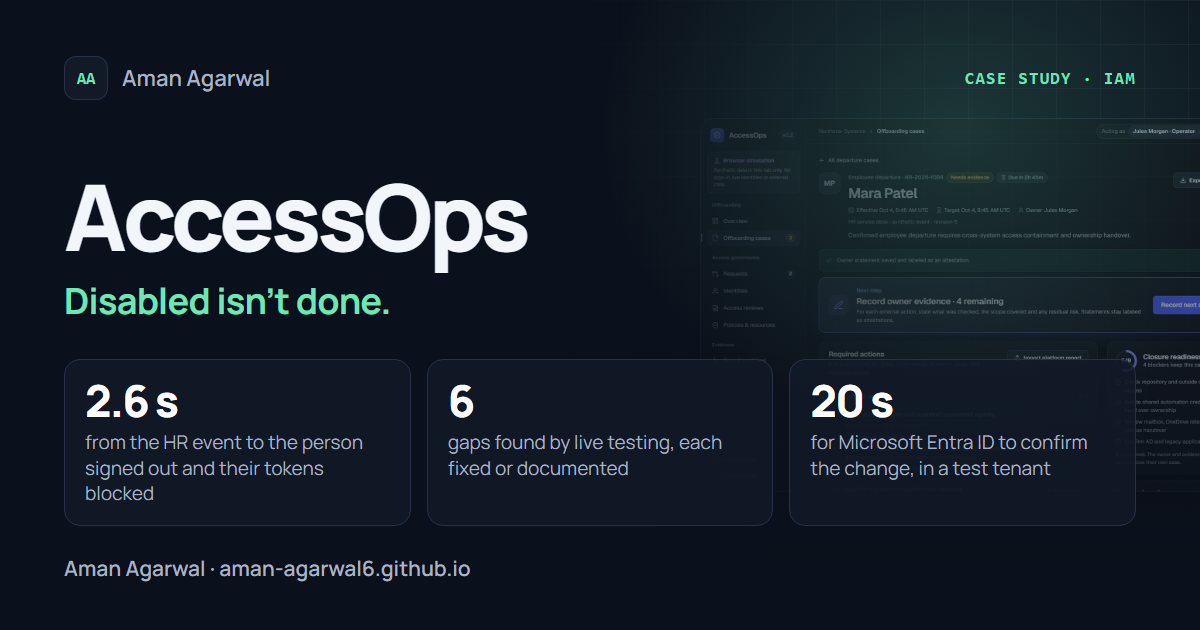
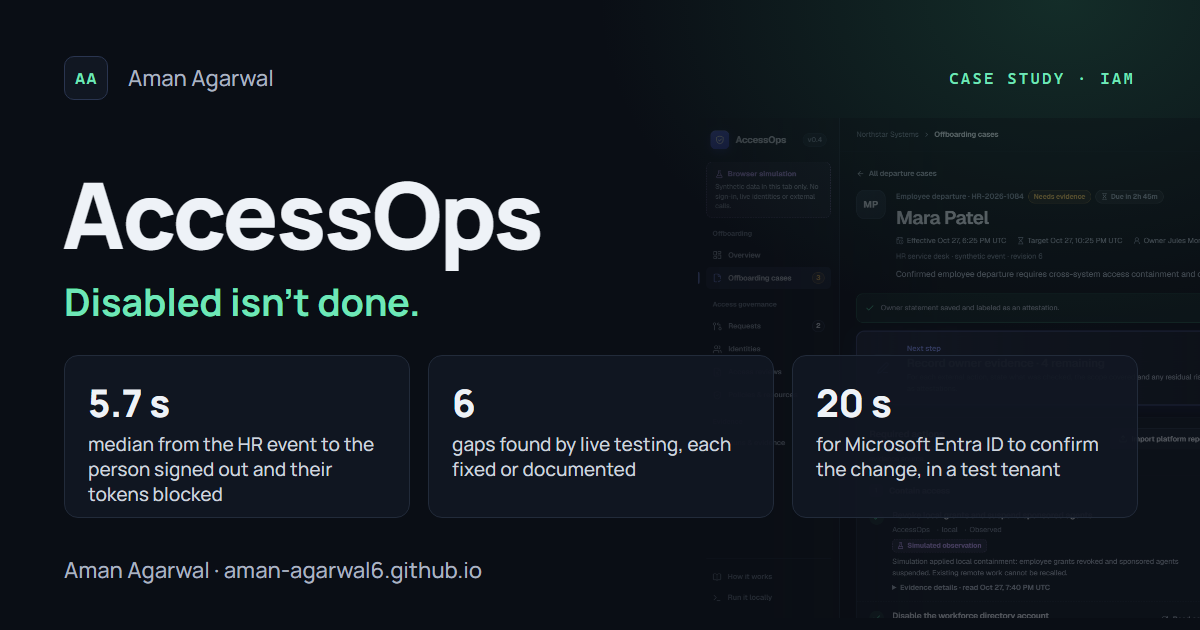
Quote AccessOps' 27 October lab rerun and show the v0.4 demo
The 2.6 s headline came from a run whose report was overwritten. Use
the rerun's median of 5.7 s over six runs, refusal within 2 s and the
33 s upper bound for a sign-in after departure. Recapture the three
screenshots and the link preview from the current demo, and keep the
forged-token finding in the leaked-key row.

diff --git a/projects/accessops.html b/projects/accessops.html
@@ -18,7 +18,7 @@
     <meta property="og:title" content="AccessOps · Disabled isn't done" />
     <meta
       property="og:description"
-      content="Leaver automation verified against real Keycloak, a Microsoft Entra test tenant and a Samba directory: access contained 2.6 s after a signed HR event, six gaps found, each fixed or documented, signed releases."
+      content="Leaver automation verified against real Keycloak, a Microsoft Entra test tenant and a Samba directory: access contained a median 5.7 s after a signed HR event, six gaps found, each fixed or documented, signed releases."
     />
     <meta property="og:url" content="https://aman-agarwal6.github.io/projects/accessops.html" />
     <meta property="og:image" content="https://aman-agarwal6.github.io/assets/img/og-accessops.png" />
@@ -65,10 +65,10 @@
           <a class="btn btn-ghost" href="https://github.com/aman-agarwal6/AccessOps/blob/main/docs/verification.md">Verification ledger</a>
         </div>
         <ul class="tiles" aria-label="Results at a glance">
-          <li><strong>2.6 s</strong>from the HR event to the person signed out and their tokens blocked</li>
+          <li><strong>5.7 s</strong>median from the HR event to the person signed out and their tokens blocked</li>
           <li><strong>6</strong>gaps found by live testing, each fixed or documented</li>
           <li><strong>20 s</strong>for Microsoft Entra ID to confirm the change, in a test tenant</li>
-          <li><strong>32 s</strong>to catch a sign-in after someone has left and alert the security team</li>
+          <li><strong>33 s</strong>at most to catch a sign-in after someone has left and alert the security team</li>
         </ul>
         <dl class="cs-meta">
           <div>
@@ -252,8 +252,8 @@
             <tbody>
               <tr><th scope="row">Group membership</th><td>Stayed after the account was disabled</td><td>Every grant is removed and re-checked</td></tr>
               <tr><th scope="row">App sessions</th><td>The person stayed signed in to the app</td><td>Sessions end; done only at zero</td></tr>
-              <tr><th scope="row">Tokens apps check themselves</th><td>Accepted for 2 more minutes</td><td>Refused 3 s after the cut-off</td></tr>
-              <tr><th scope="row">A leaked signing key</th><td>Apps cached Keycloak's keys for 5 minutes, so a removed key could stay trusted that long</td><td>Apps drop a removed key in 60 s</td></tr>
+              <tr><th scope="row">Tokens apps check themselves</th><td>Accepted for up to 2 more minutes</td><td>Refused within 2 s of the cut-off</td></tr>
+              <tr><th scope="row">A leaked signing key</th><td>Keycloak accepted a token forged with the leaked key; apps cached keys for 5 minutes, so a removed key stayed trusted that long</td><td>Apps drop a removed key in 60 s</td></tr>
               <tr><th scope="row">Key rotation</th><td>Valid tokens refused for 30 s</td><td>New key published first; none refused</td></tr>
               <tr><th scope="row">Kerberos tickets</th><td>Kept the removed group's rights</td><td>Can't be revoked; the case shows when they expire (up to 10 h)</td></tr>
             </tbody>
@@ -266,7 +266,7 @@
 
       <section class="cs-section" aria-labelledby="results">
         <h2 id="results">Results</h2>
-        <p class="scope-note">October 5, 2026, with synthetic users. Every live suite passed on its latest run.</p>
+        <p class="scope-note">Rerun on October 27, 2026 on the current code, with synthetic users; the Entra test-tenant run is from October 5. Every live suite passed on its latest run, and the two failed attempts that day are on the evidence page.</p>
         <div class="table-wrap findings-table" tabindex="0" role="region" aria-label="Scrollable table of recorded results">
           <table>
             <caption class="sr-only">Recorded checks and their results</caption>
@@ -277,7 +277,7 @@
               <tr><th scope="row">Departure case through Keycloak</th><td>18 / 18</td></tr>
               <tr><th scope="row">Departure case with a Samba directory account</th><td>28 / 28</td></tr>
               <tr><th scope="row">Sessions and tokens, before and after</th><td>22 / 22</td></tr>
-              <tr><th scope="row">HR event to access shut off</th><td>10 / 10</td></tr>
+              <tr><th scope="row">HR event to access shut off, 6 runs</th><td>10 / 10 each; median 5.7 s</td></tr>
               <tr><th scope="row">Microsoft Entra ID, free test tenant</th><td>11 / 11</td></tr>
               <tr><th scope="row">Sign-in after departure</th><td>7 / 7</td></tr>
               <tr><th scope="row">Operator sign-in and access lifecycle, including 3 MFA checks</th><td>14 / 14</td></tr>

diff --git a/overview.html b/overview.html
@@ -66,7 +66,7 @@
   <section class="summary-section" aria-labelledby="projects-title">
     <h2 id="projects-title">Selected projects</h2>
     <div class="summary-projects">
-      <article><div><h3><a href="projects/accessops.html">AccessOps</a></h3><span class="summary-status">Public source and demo · Signed release</span></div><div><p class="summary-lede">Automated employee offboarding that shuts off a departing person's access in Microsoft Entra ID (test tenant), Keycloak and an Active Directory-compatible directory, then checks each system to confirm the change.</p><ul class="summary-points"><li><strong>2.6 s</strong> from the HR event to the person signed out and their tokens blocked</li><li><strong>6 gaps</strong> found by live testing, from a surviving group membership to Kerberos tickets valid for 10 hours, each fixed or documented</li><li><strong>20 s</strong> for Entra to confirm the change; <strong>32 s</strong> to catch a sign-in after someone has left</li></ul><small>Python / Django / PostgreSQL / React / Keycloak / Microsoft Entra ID / OPA</small></div></article>
+      <article><div><h3><a href="projects/accessops.html">AccessOps</a></h3><span class="summary-status">Public source and demo · Signed release</span></div><div><p class="summary-lede">Automated employee offboarding that shuts off a departing person's access in Microsoft Entra ID (test tenant), Keycloak and an Active Directory-compatible directory, then checks each system to confirm the change.</p><ul class="summary-points"><li><strong>5.7 s</strong> median from the HR event to the person signed out and their tokens blocked</li><li><strong>6 gaps</strong> found by live testing, from a surviving group membership to Kerberos tickets valid for 10 hours, each fixed or documented</li><li><strong>20 s</strong> for Entra to confirm the change; at most <strong>33 s</strong> to catch a sign-in after someone has left</li></ul><small>Python / Django / PostgreSQL / React / Keycloak / Microsoft Entra ID / OPA</small></div></article>
       <article><div><h3><a href="projects/signalbridge.html">SignalBridge</a></h3><span class="summary-status">Public source · Signed release</span></div><div><p class="summary-lede">Detection rules for identity attacks in Windows and Microsoft Entra ID logs, tested on public attack data and compared with the security community's rules.</p><ul class="summary-points"><li><strong>Sigma rules</strong> for password spraying, Kerberoasting, MFA fatigue and device code phishing caught <strong>18 of 21</strong> public attack captures, with no alerts on captures they weren't meant for</li><li>Found <strong>3 community Entra rules</strong> that can't fire on the public exports I tested, and an attack that slipped past both their rule and my first draft</li><li>Lab version: found and fixed a race that accepted <strong>4 test writes</strong> after access was withdrawn mid-request; opens a critical case when an account offboarded by AccessOps is used again</li></ul><small>Sigma / Splunk SPL / KQL / Microsoft Entra ID / Windows Security logs / MITRE ATT&amp;CK / Python / Wazuh</small></div></article>
       <article><div><h3><a href="projects/bettail.html">BetTail</a></h3><span class="summary-status">Live · Private source</span></div><div><p class="summary-lede">A live web app where private groups share sports picks and see profit, ROI and leaderboards calculated in the database.</p><ul class="summary-points"><li>Every request runs as the signed-in user under <strong>row-level security</strong>; no admin database key in the app</li><li>My security review found and fixed <strong>6 issues</strong>, including a NULL that skipped a guard and a CSV export open to formula injection</li><li>Shows <strong>AI research reports</strong> from Downfield, published through a report-only credential</li></ul><small>TypeScript / Next.js / PostgreSQL / Supabase</small></div></article>
       <article><div><h3><a href="projects/netted.html">Netted</a></h3><span class="summary-status">Deployed beta · Private source</span></div><div><p class="summary-lede">A personal-finance app for trade profit, shared funds and budgeting, built from a spreadsheet and accounting rules I wrote first.</p><ul class="summary-points"><li><strong>MFA enforced inside the database</strong>, so the API can't skip it</li><li>Security assessment for non-technical decision makers and a <strong>7-item risk register</strong> with owners and due dates</li><li>All <strong>506 journal records</strong> restored from an encrypted backup, hash-matched</li></ul><small>TypeScript / Next.js / PostgreSQL / Supabase</small></div></article>

diff --git a/index.html b/index.html
@@ -100,7 +100,7 @@
         <p class="tagline">Disabled isn’t done.</p>
         <p class="feature-desc">When someone leaves, an HR event shuts off their access in Microsoft Entra ID (test tenant), Keycloak and an Active Directory-compatible directory, and each system is checked to confirm the change. Anything it can’t reach stays open with an owner until someone else reviews and closes the case.</p>
         <ul class="metrics">
-          <li><strong>2.6 s</strong><span>from the HR event to the person signed out and their tokens blocked</span></li>
+          <li><strong>5.7 s</strong><span>median from the HR event to the person signed out and their tokens blocked</span></li>
           <li><strong>6</strong><span>gaps found by live testing, each fixed or documented</span></li>
           <li><strong>20 s</strong><span>for Microsoft Entra ID to confirm the change, in a test tenant</span></li>
         </ul>
@@ -176,7 +176,7 @@
         </svg>
       </div>
       <ul class="metrics metrics-pair">
-        <li><strong>32 s</strong><span>to catch a sign-in after someone has left and alert the security team</span></li>
+        <li><strong>33 s</strong><span>at most to catch a sign-in after someone has left and alert the security team</span></li>
         <li><strong>38</strong><span>signed leaver events SignalBridge verified and stored in two live rounds, none refused</span></li>
         <li><strong>1</strong><span>critical case, opened when a contained test account was re-enabled and used</span></li>
       </ul>

diff --git a/docs/PROJECTS.md b/docs/PROJECTS.md
@@ -6,9 +6,9 @@ Every project on [aman-agarwal6.github.io](https://aman-agarwal6.github.io/), wi
 
 Automated employee offboarding that shuts off a departing person's access in Microsoft Entra ID (test tenant), Keycloak and an Active Directory-compatible directory, then checks each system to confirm the change.
 
-- **2.6 s** from the HR event to the person signed out and their tokens blocked
+- **5.7 s** median from the HR event to the person signed out and their tokens blocked
 - **6 gaps** found by live testing, from a surviving group membership to Kerberos tickets valid for 10 hours, each fixed or documented
-- **20 s** for Entra to confirm the change; **32 s** to catch a sign-in after someone has left
+- **20 s** for Entra to confirm the change; at most **33 s** to catch a sign-in after someone has left
 
 [Case study](https://aman-agarwal6.github.io/projects/accessops.html) · [Live demo](https://aman-agarwal6.github.io/AccessOps/) · [Source](https://github.com/aman-agarwal6/AccessOps) · [Verification ledger](https://github.com/aman-agarwal6/AccessOps/blob/main/docs/verification.md)
 
